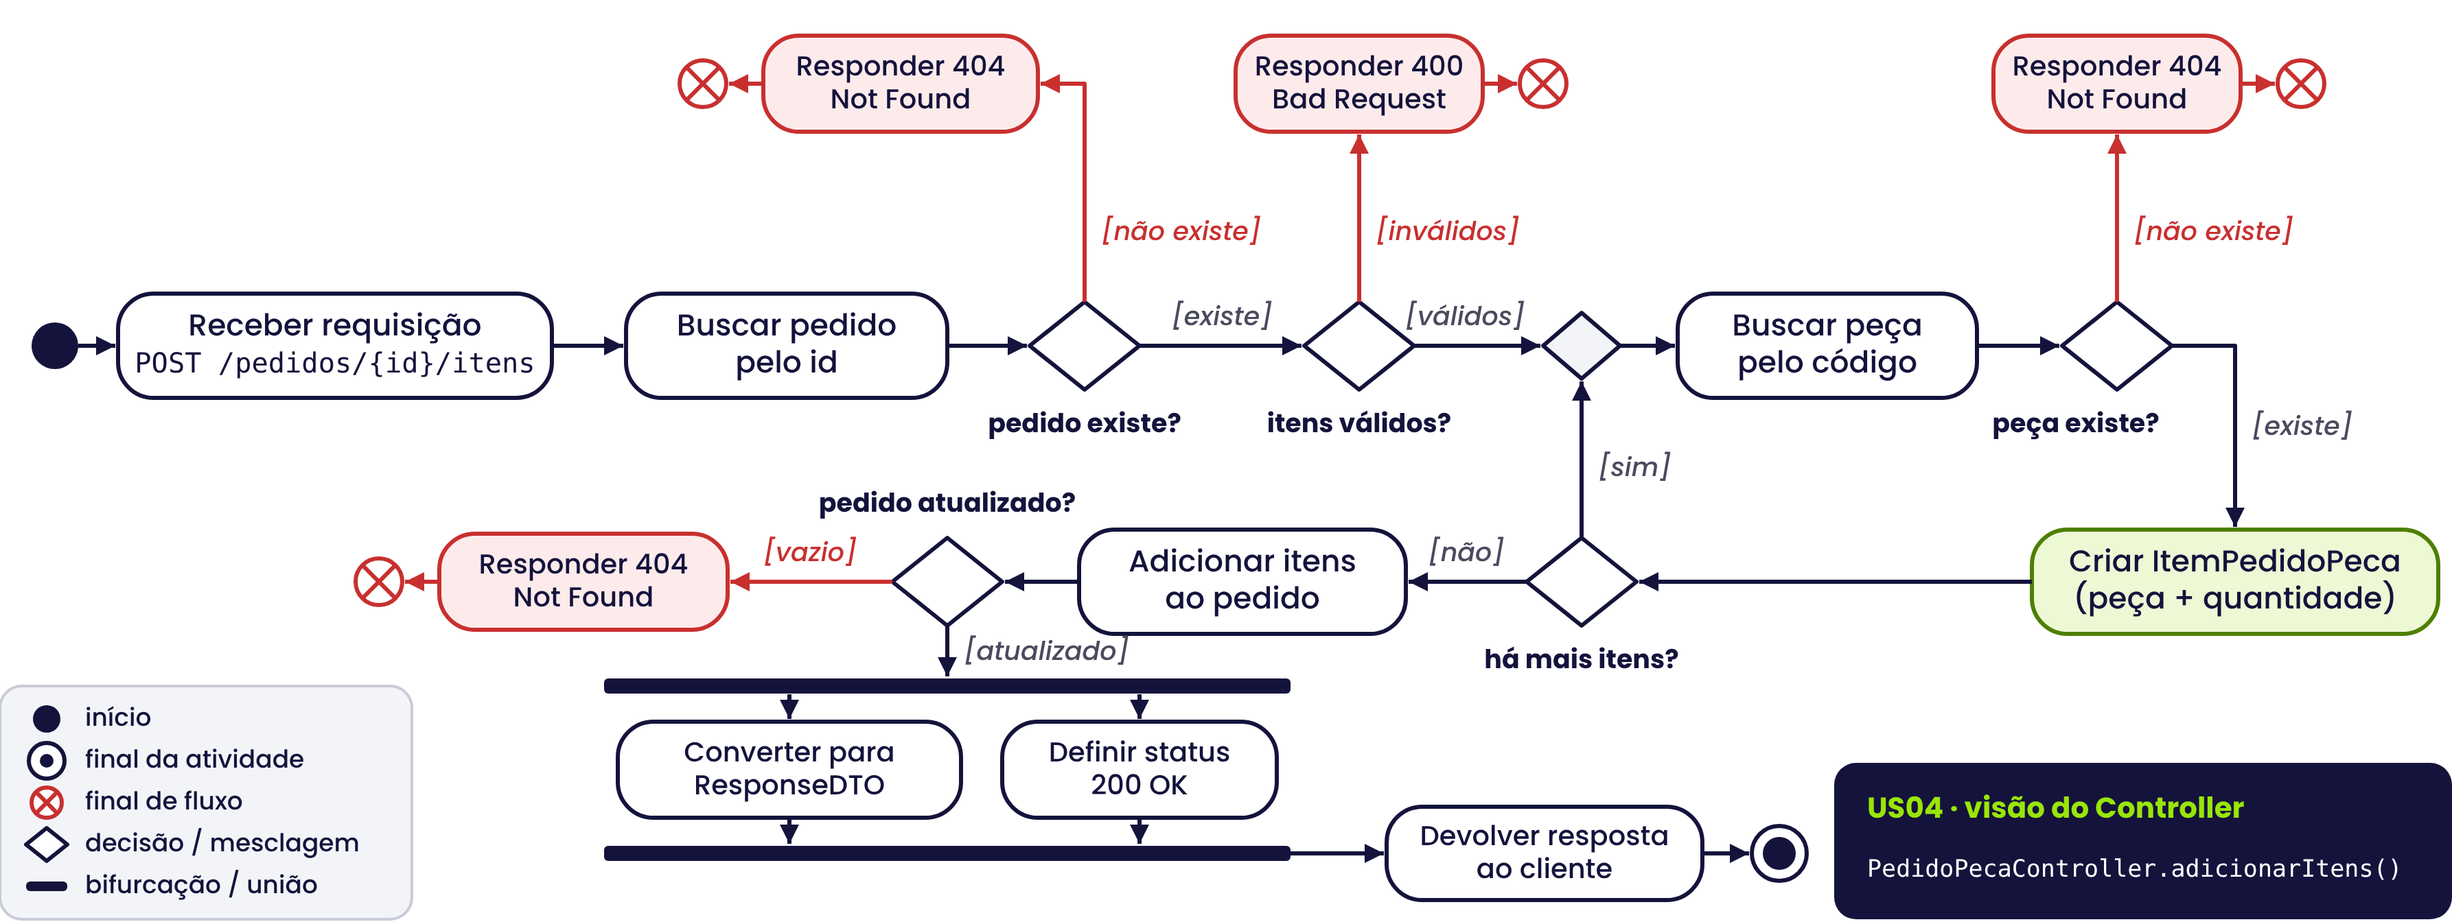
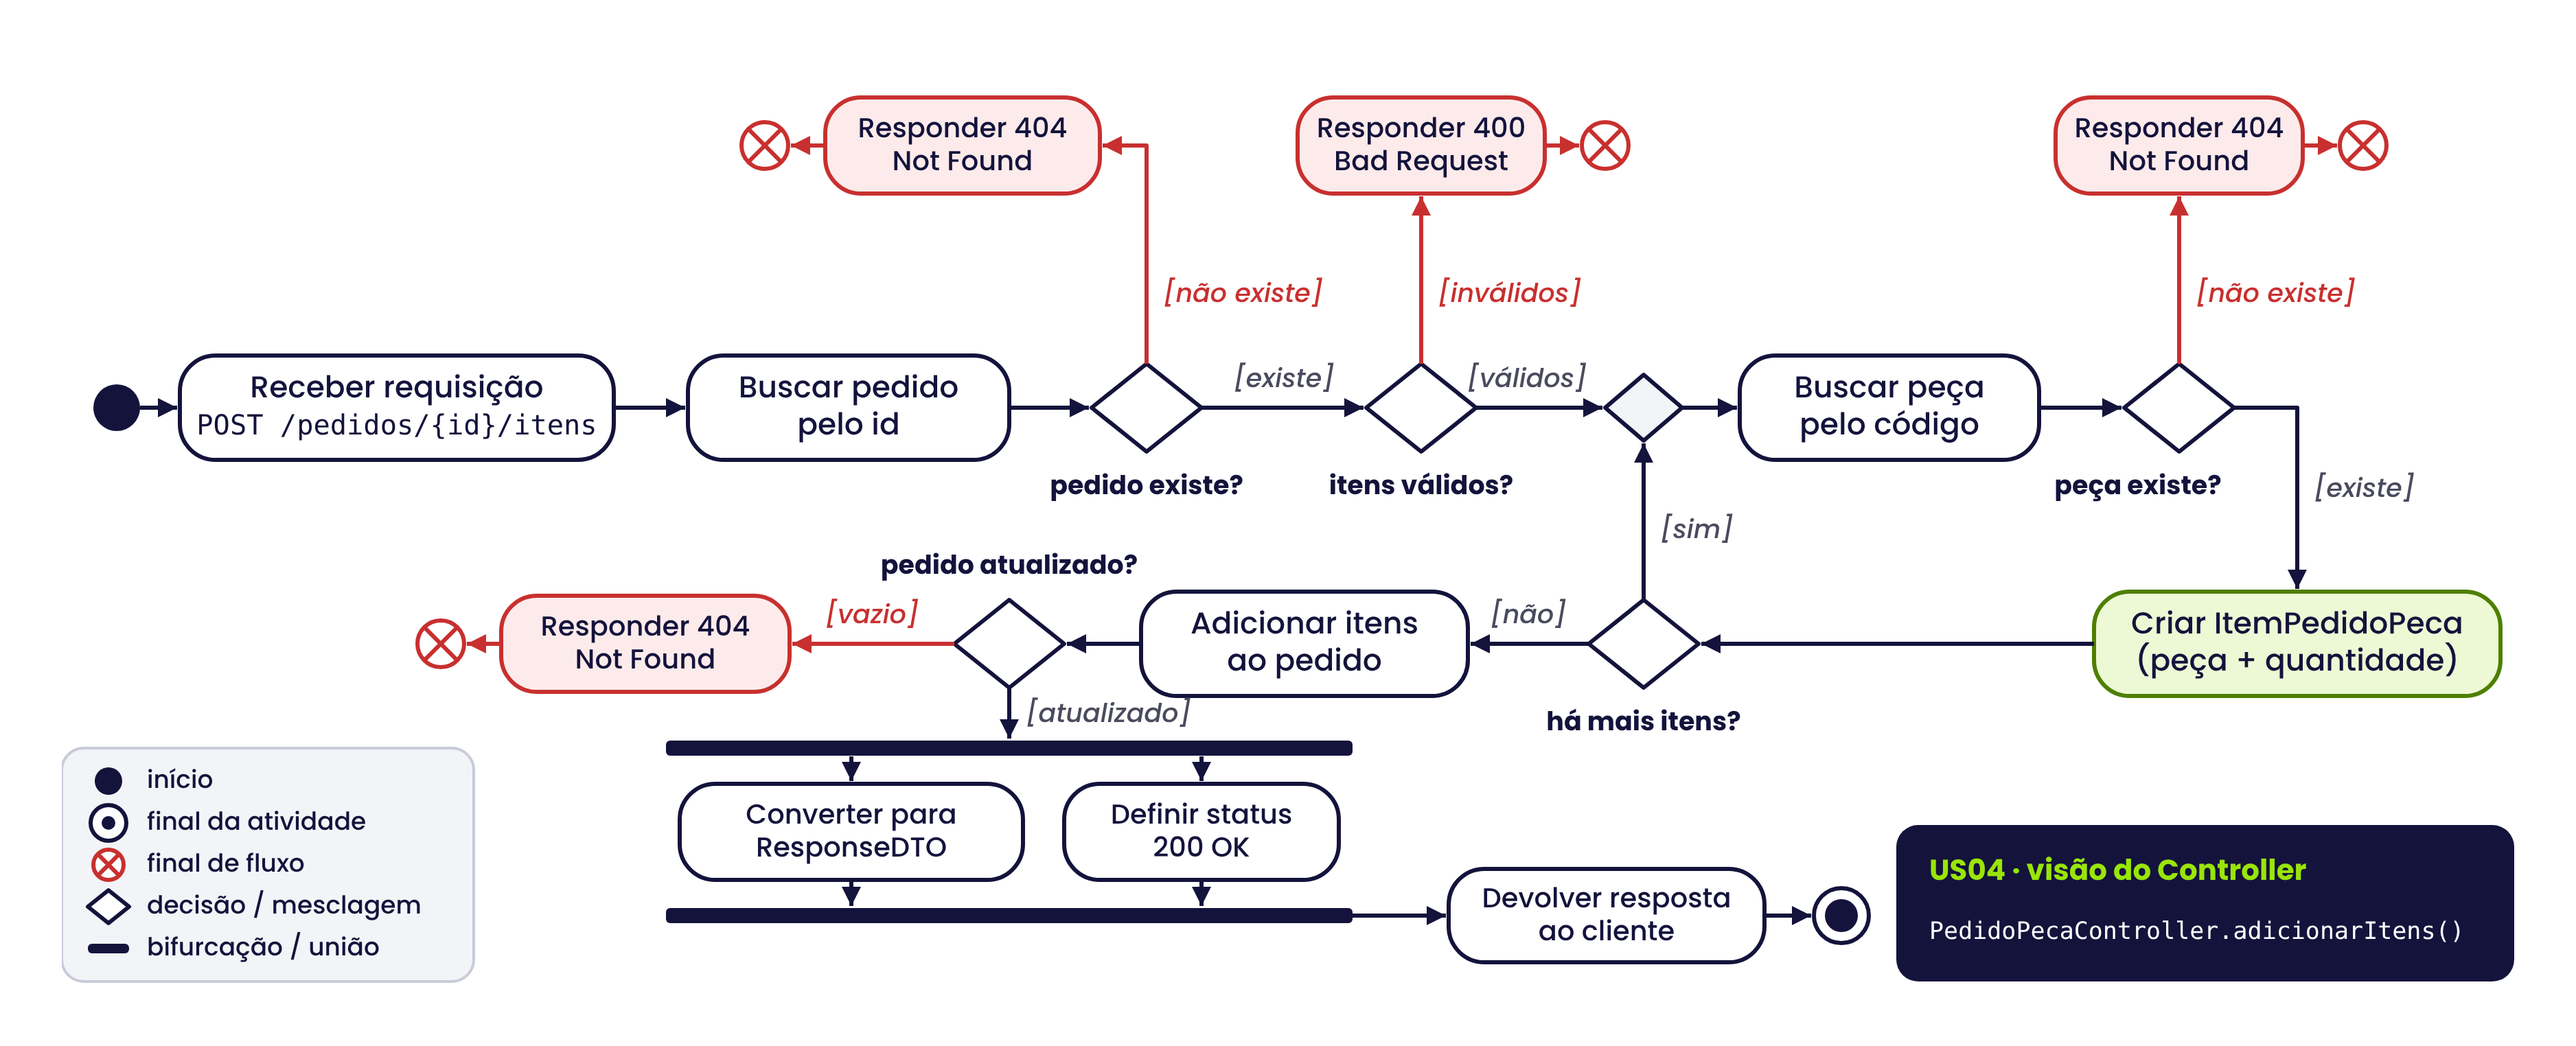
docs: diagrama de atividade da US04 e descrição do fluxo

Changed region(s): [[0.0, 0.0312, 1.0, 1.0], [0.0, 0.7188, 0.1865, 1.0]]

diff --git a/docs/diagrama-de-atividade.md b/docs/diagrama-de-atividade.md
@@ -1,0 +1,32 @@
+# Diagrama de Atividade – US04
+
+**Versão oficial, criada em 27/09/2026 conforme o código presente no projeto.**
+
+- **User Story:** US04 – Adicionar peças a um pedido existente
+- **Endpoint:** `POST /api/pedidos/{id}/itens`
+- **Visão:** Controller – `PedidoPecaController.adicionarItens()`
+
+![Diagrama de atividade da US04](diagrama-de-atividade-us04.png)
+
+## Fluxo
+
+1. O Controller recebe a requisição com a lista de itens (`AdicionarItensPedidoRequestDTO`).
+2. Busca o pedido pelo id. Se não existir, responde **404 Not Found**.
+3. Valida os itens: lista não vazia, código da peça informado e quantidade maior que zero. Se algum item for inválido, responde **400 Bad Request**.
+4. Para cada item (laço iniciado por um nó de mesclagem):
+   - busca a peça pelo código; se não existir, responde **404 Not Found**;
+   - se existir, cria `ItemPedidoPeca(peca, quantidade)` (entidade associativa).
+5. Adiciona os itens ao pedido (`PedidoPecaRepository.adicionarItens`). Se o retorno vier vazio, responde **404 Not Found**.
+6. Bifurcação: converte o pedido em `PedidoPecaResponseDTO` e define o status **200 OK**, duas ações independentes que se juntam na união.
+7. Devolve a resposta ao cliente e encerra a atividade.
+
+## Nós de controle UML
+
+| Nó | Onde aparece |
+|---|---|
+| Início | Entrada da requisição |
+| Decisão | pedido existe?, itens válidos?, peça existe?, há mais itens?, pedido atualizado? |
+| Mesclagem (merge) | Entrada do laço que percorre os itens |
+| Bifurcação (fork) / União (join) | Montagem da resposta: DTO + status 200 |
+| Final de fluxo | Encerra cada caminho de erro (400 / 404) |
+| Final da atividade | Encerra o caminho de sucesso |
